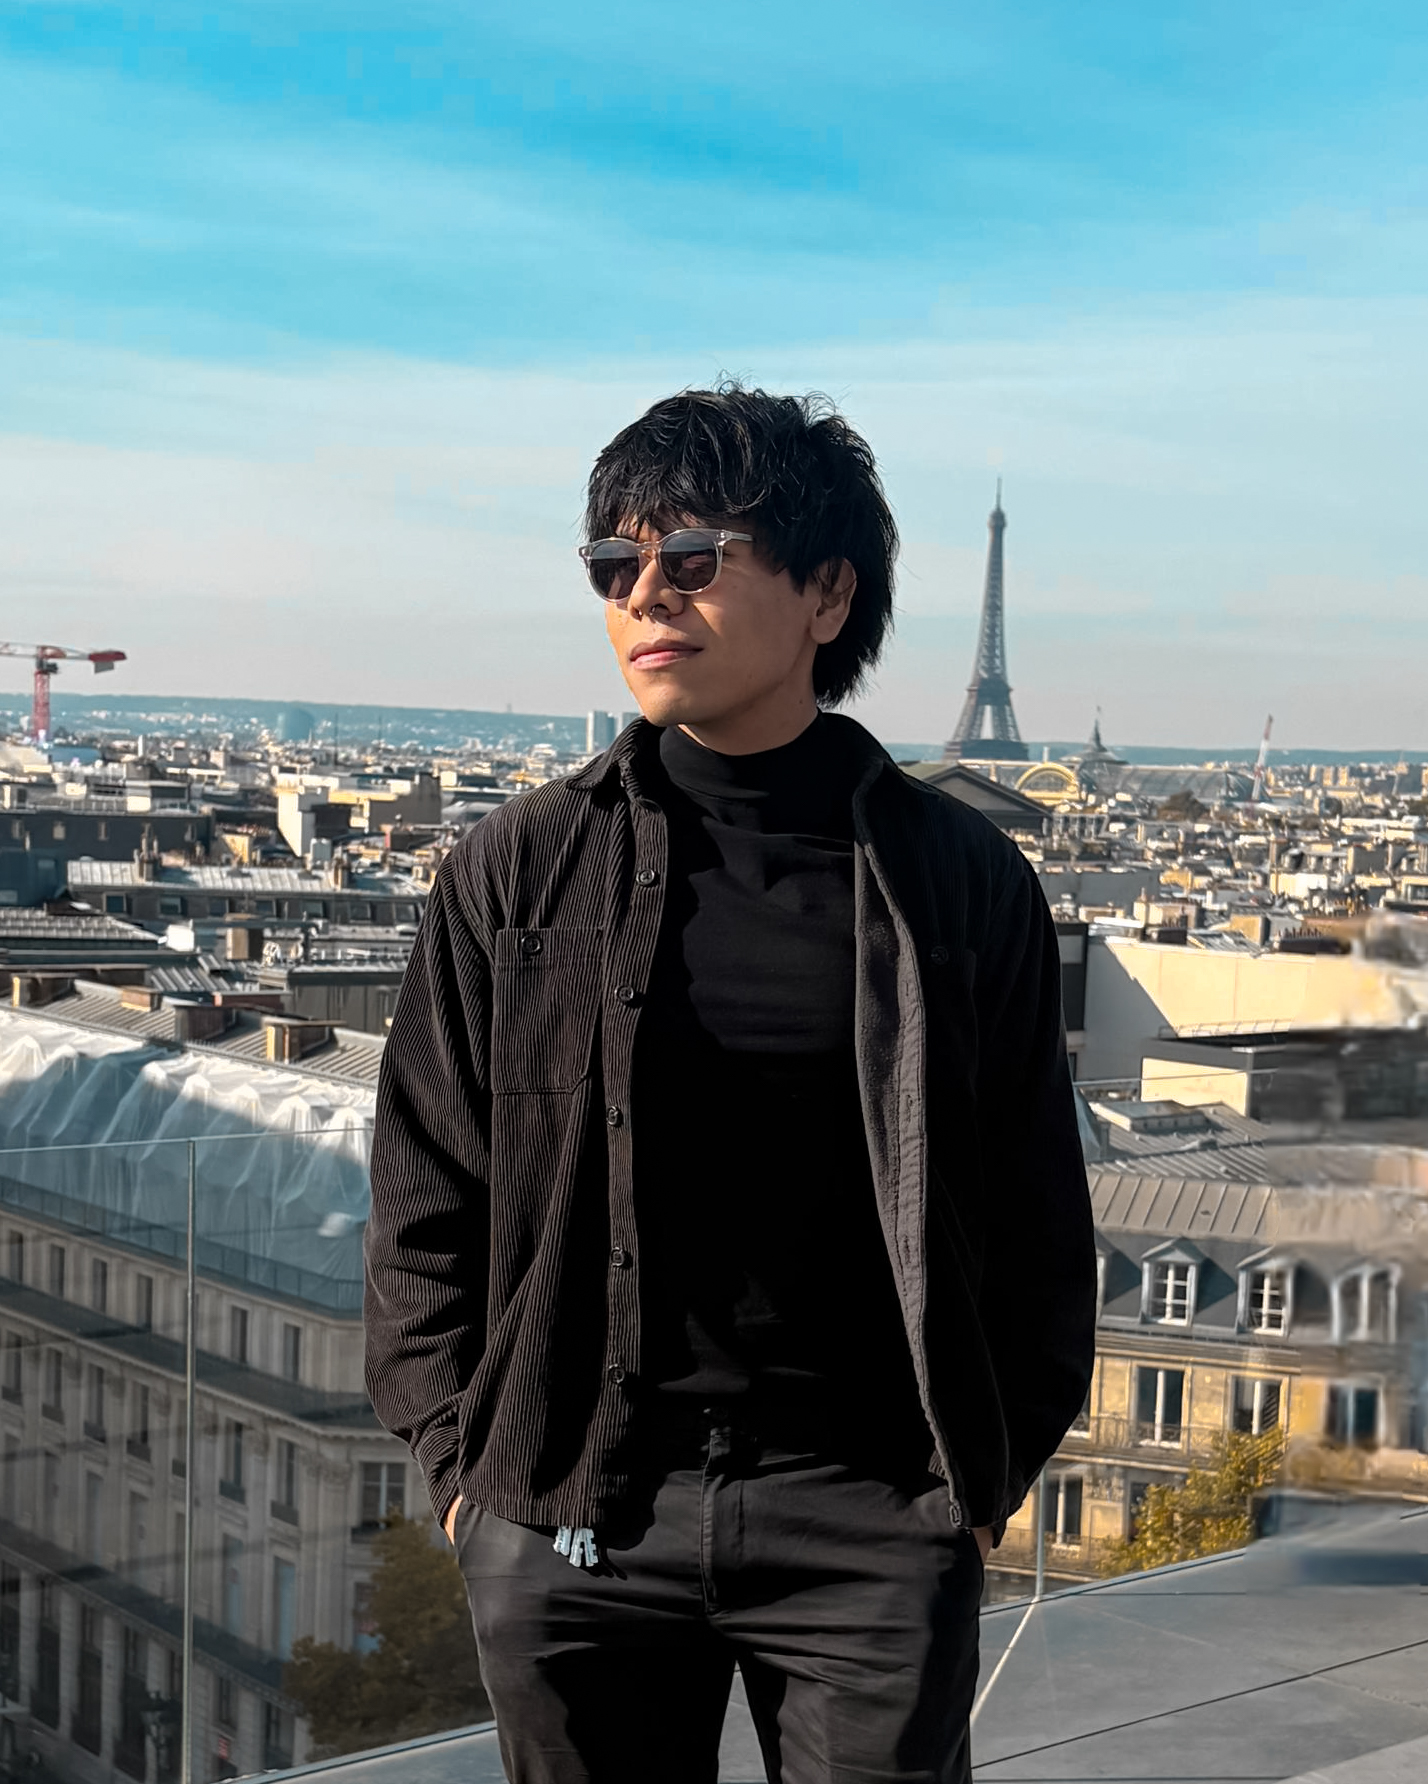
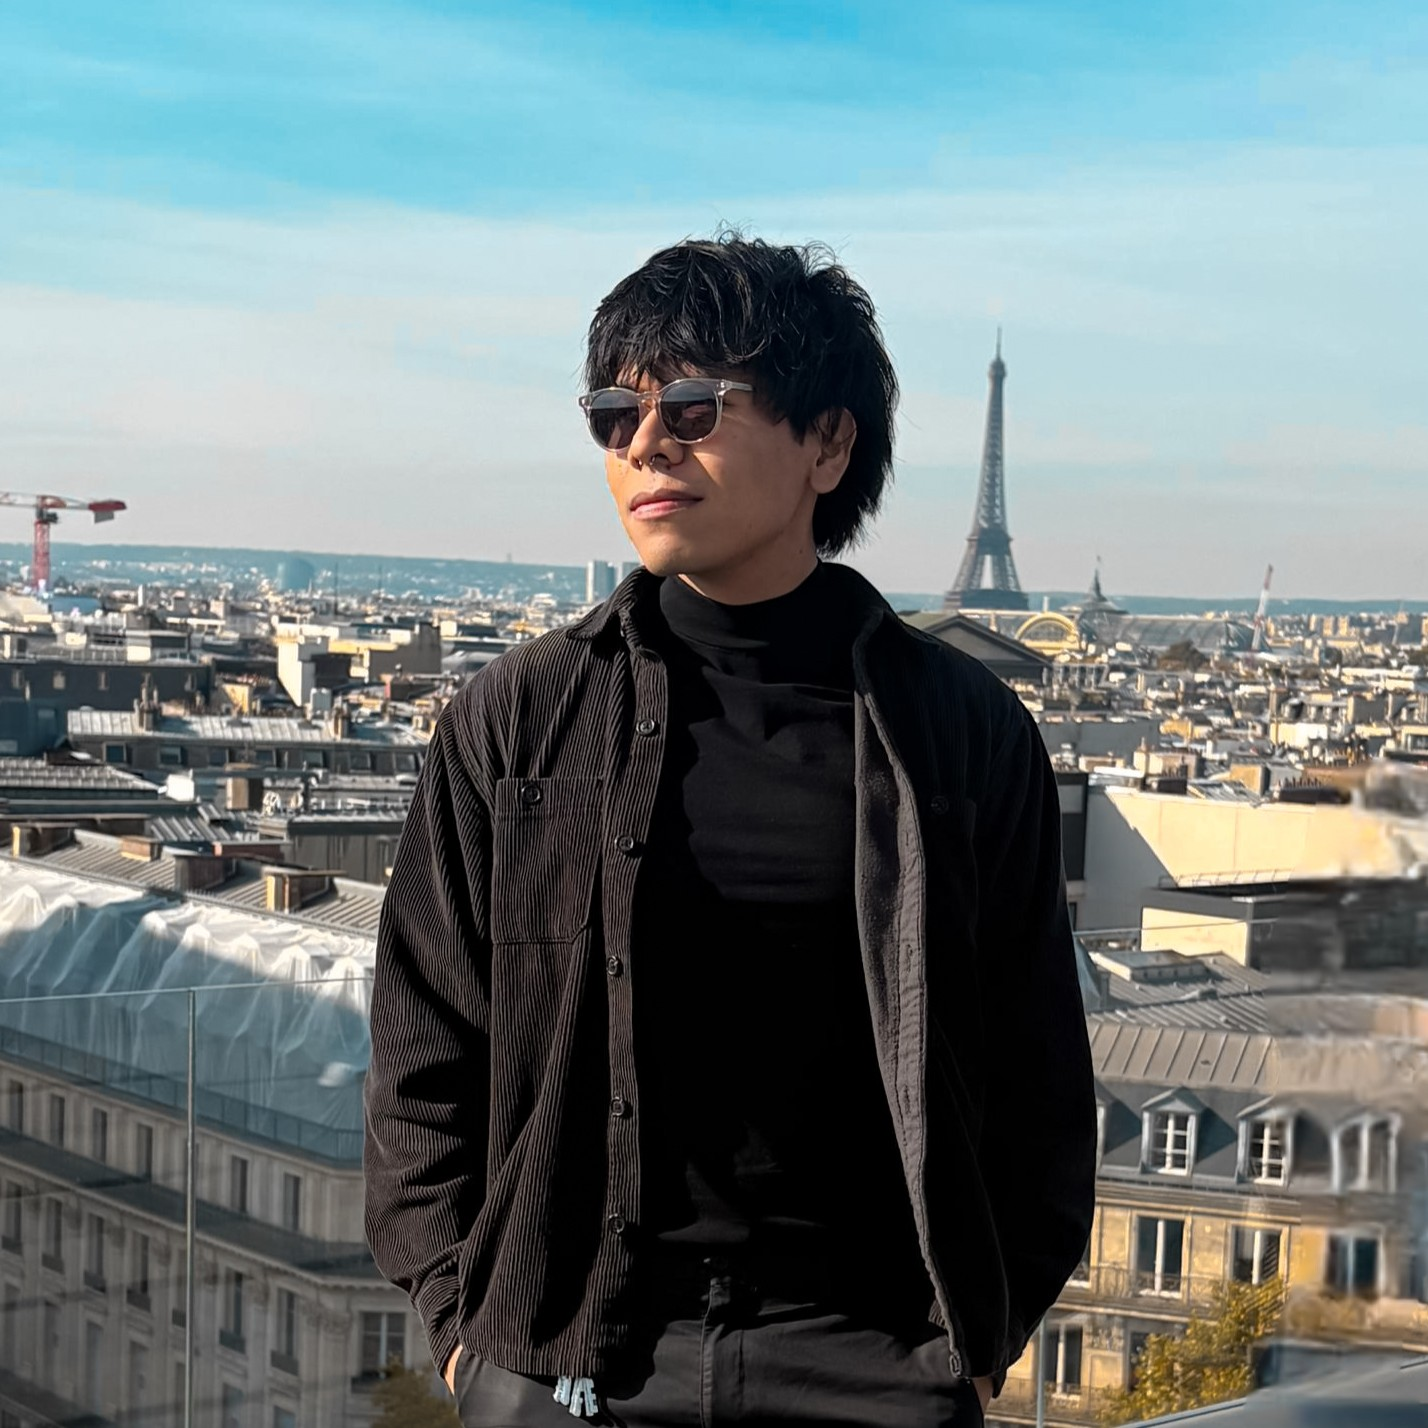
profile_pic_update

diff --git a/_pages/about.md b/_pages/about.md
@@ -8,7 +8,7 @@ profile:
   align: right
   image: IMG-20251013-WA0009.jpg
   #image: 20241230_163648.jpg
-  image_circular: false # crops the image to make it circular
+  image_circular: true # crops the image to make it circular
   #more_info: >
  #   <p>555 your office number</p>
  #   <p>123 your address street</p>
